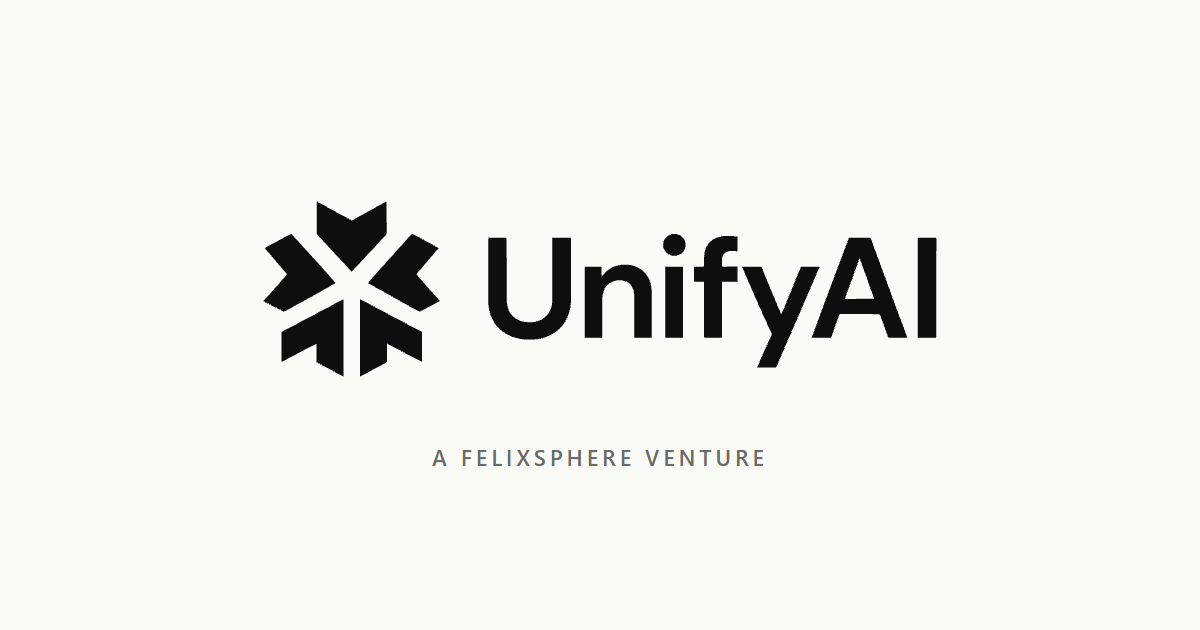
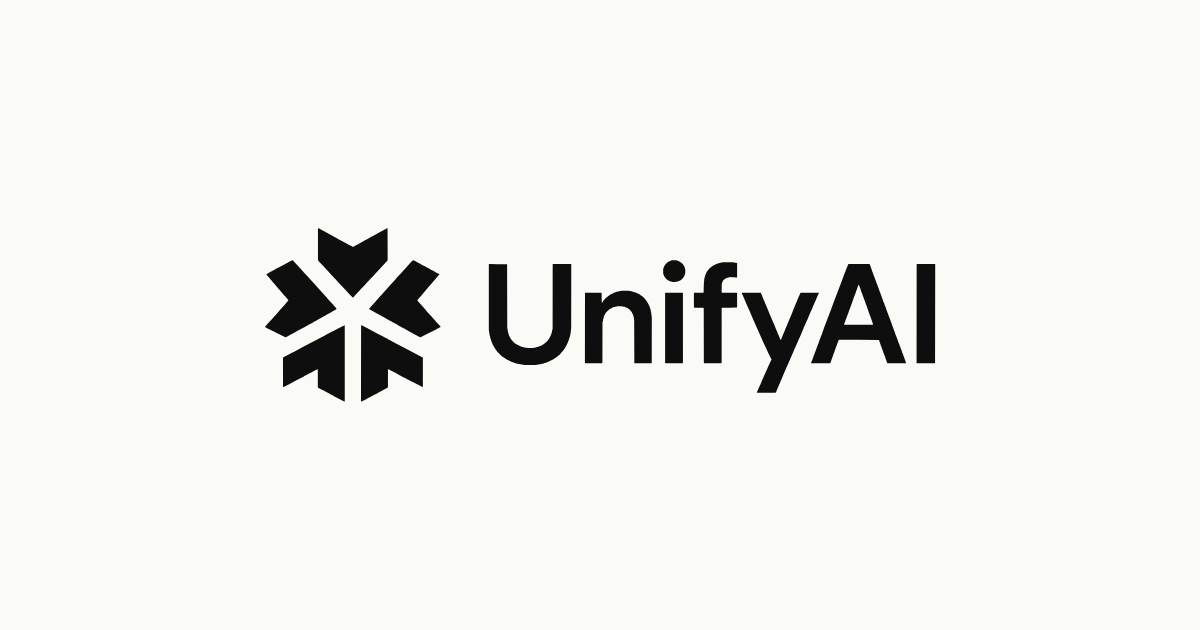
docs(spec): notifications use the shared UnifyAI email layout; drop the tagline
The brand owner wants Compute's future emails on the same layout as every
other UnifyAI product. No sending code exists, and this adds none: it
specifies three messages (job finished, job failed, and billing stopped the
job), tied to the states and codes the job API, metering spec and ADR-0008
already define (succeeded, failed, balance_exhausted, billing_unavailable).
Compute still cannot email a customer because the console owns contact
details, so the spec leaves the delivery path and the sender address open.

base.html is a verbatim copy of the kit's layout, and the logo PNGs are
served from this site's own domain, because the kit forbids hotlinking
across products. The kit's OG image carried "A FelixSphere venture", which
the user has now ruled out everywhere. It is re-rendered from the kit
lockup SVG without the line. The self-hosted brand fonts are recorded as
OFL in THIRD-PARTY-LICENSES.md.

diff --git a/docs/spec/email/base.html b/docs/spec/email/base.html
@@ -1,0 +1,98 @@
+<!doctype html>
+<html lang="{{lang}}" dir="{{dir}}" xmlns="http://www.w3.org/1999/xhtml">
+<head>
+<meta charset="utf-8">
+<meta name="viewport" content="width=device-width, initial-scale=1">
+<meta name="x-apple-disable-message-reformatting">
+<meta name="color-scheme" content="light">
+<meta name="supported-color-schemes" content="light">
+<title>{{subject}}</title>
+<!--[if !mso]><!-->
+<link href="https://fonts.googleapis.com/css2?family=Space+Grotesk:wght@700&family=Instrument+Sans:wght@400;600&family=IBM+Plex+Mono:wght@500&display=swap" rel="stylesheet">
+<!--<![endif]-->
+<style>
+  body { margin: 0; padding: 0; background: #FAFAF7; }
+  a { color: #0E0E0E; }
+  @media (max-width: 620px) {
+    .u-card { width: 100% !important; }
+    .u-pad { padding-left: 24px !important; padding-right: 24px !important; }
+    .u-h1 { font-size: 24px !important; line-height: 30px !important; }
+  }
+</style>
+</head>
+<body style="margin:0; padding:0; background:#FAFAF7;">
+<!-- Inbox preview text: one sentence, never repeats the subject -->
+<div style="display:none; max-height:0; overflow:hidden; mso-hide:all;">{{preheader}}&#8199;&#65279;&#847;&#8199;&#65279;&#847;&#8199;&#65279;&#847;</div>
+
+<table role="presentation" width="100%" cellpadding="0" cellspacing="0" border="0" style="background:#FAFAF7;">
+<tr><td align="center" style="padding:32px 12px;">
+
+  <table role="presentation" class="u-card" width="600" cellpadding="0" cellspacing="0" border="0" style="width:600px; max-width:600px; background:#FFFFFF; border:1px solid #E3E3DE; border-radius:6px;">
+
+    <!-- Header: fixed lockup + product descriptor (current product name, unchanged) -->
+    <tr><td class="u-pad" style="padding:28px 40px 24px; border-bottom:1px solid #E3E3DE;">
+      <table role="presentation" cellpadding="0" cellspacing="0" border="0"><tr>
+        <td style="vertical-align:middle;"><img src="{{asset_base}}/unifyai-lockup-black@2x.png" width="132" height="40" alt="UnifyAI" style="display:block; border:0; width:132px; height:40px;"></td>
+        <!-- Omit the next two cells when the product IS "UnifyAI" (UnifySelfAI) -->
+        <td style="vertical-align:middle; padding:0 14px;"><div style="width:1px; height:22px; background:#CFCFC9;"></div></td>
+        <td style="vertical-align:middle; font-family:'Space Grotesk',Helvetica,Arial,sans-serif; font-weight:700; font-size:16px; color:#0E0E0E; white-space:nowrap;">{{product_name}}</td>
+      </tr></table>
+    </td></tr>
+
+    <!-- Body -->
+    <tr><td class="u-pad" style="padding:36px 40px 8px;">
+      <div style="font-family:'IBM Plex Mono',Menlo,Consolas,monospace; font-size:12px; letter-spacing:1.6px; text-transform:uppercase; color:#6B6B66;">{{eyebrow}}</div>
+      <h1 class="u-h1" style="margin:10px 0 0; font-family:'Space Grotesk',Helvetica,Arial,sans-serif; font-weight:700; font-size:28px; line-height:34px; letter-spacing:-0.4px; color:#0E0E0E;">{{headline}}</h1>
+      <p style="margin:16px 0 0; font-family:'Instrument Sans',Helvetica,Arial,sans-serif; font-size:16px; line-height:26px; color:#3A3A37;">{{intro}}</p>
+    </td></tr>
+
+    <!-- ONE focal element. Use exactly one of: CTA button | code block -->
+    <!-- (a) CTA button: amber, INK text (white on amber fails contrast) -->
+    <tr><td class="u-pad" style="padding:28px 40px 4px;">
+      <table role="presentation" cellpadding="0" cellspacing="0" border="0"><tr>
+        <td style="border-radius:6px; background:#F5A623;">
+          <!--[if mso]><v:roundrect xmlns:v="urn:schemas-microsoft-com:vml" href="{{cta_url}}" style="height:48px;v-text-anchor:middle;width:240px;" arcsize="12%" stroke="f" fillcolor="#F5A623"><center style="color:#0E0E0E;font-family:Arial,sans-serif;font-size:16px;font-weight:bold;">{{cta_label}}</center></v:roundrect><![endif]-->
+          <!--[if !mso]><!--><a href="{{cta_url}}" style="display:inline-block; padding:14px 26px; font-family:'Instrument Sans',Helvetica,Arial,sans-serif; font-weight:600; font-size:16px; line-height:20px; color:#0E0E0E; text-decoration:none; border-radius:6px;">{{cta_label}}</a><!--<![endif]-->
+        </td>
+      </tr></table>
+      <p style="margin:14px 0 0; font-family:'Instrument Sans',Helvetica,Arial,sans-serif; font-size:13px; line-height:20px; color:#6B6B66;">Button not working? Paste this link into your browser:<br><a href="{{cta_url}}" style="color:#0E0E0E; word-break:break-all;">{{cta_url}}</a></p>
+    </td></tr>
+    <!-- (b) Code block alternative:
+    <tr><td class="u-pad" style="padding:28px 40px 4px;">
+      <div style="background:#0E0E0E; border-radius:6px; padding:20px 24px; font-family:'IBM Plex Mono',Menlo,Consolas,monospace; font-weight:500; font-size:32px; letter-spacing:8px; color:#FAFAF7; text-align:center;">{{code}}</div>
+    </td></tr>
+    -->
+
+    <!-- Optional details: key/value rows, mono values -->
+    <tr><td class="u-pad" style="padding:28px 40px 0;">
+      <table role="presentation" width="100%" cellpadding="0" cellspacing="0" border="0" style="border-top:1px solid #E3E3DE;">
+        <!-- repeat per row -->
+        <tr>
+          <td style="padding:10px 0; border-bottom:1px solid #E3E3DE; font-family:'Instrument Sans',Helvetica,Arial,sans-serif; font-size:14px; color:#6B6B66;">{{detail_label}}</td>
+          <td align="right" style="padding:10px 0; border-bottom:1px solid #E3E3DE; font-family:'IBM Plex Mono',Menlo,Consolas,monospace; font-size:14px; color:#0E0E0E;">{{detail_value}}</td>
+        </tr>
+      </table>
+    </td></tr>
+
+    <!-- Safety line: why this arrived / what to do if unexpected -->
+    <tr><td class="u-pad" style="padding:24px 40px 36px;">
+      <p style="margin:0; font-family:'Instrument Sans',Helvetica,Arial,sans-serif; font-size:13px; line-height:20px; color:#6B6B66;">{{safety_note}}</p>
+    </td></tr>
+
+  </table>
+
+  <!-- Footer, outside the card -->
+  <table role="presentation" class="u-card" width="600" cellpadding="0" cellspacing="0" border="0" style="width:600px; max-width:600px;">
+    <tr><td class="u-pad" style="padding:24px 40px; font-family:'Instrument Sans',Helvetica,Arial,sans-serif; font-size:12px; line-height:19px; color:#6B6B66;">
+      <img src="{{asset_base}}/unifyai-mark-black@2x.png" width="24" height="24" alt="" style="display:block; border:0; width:24px; height:24px; margin-bottom:10px;">
+      {{product_name}} · <a href="{{product_url}}" style="color:#6B6B66;">{{product_domain}}</a><br>
+      {{footer_reason}}<br>
+      UnifyAI · Lebuh Bandar Utama PJU 6, 47800 Petaling Jaya, Selangor, Malaysia
+      <!-- Marketing mail only: add an unsubscribe link here. Transactional mail (verify, reset, receipts) has none. -->
+    </td></tr>
+  </table>
+
+</td></tr>
+</table>
+</body>
+</html>

diff --git a/docs/spec/notifications.md b/docs/spec/notifications.md
@@ -1,0 +1,180 @@
+# Notifications: customer email for job outcomes
+
+- **Status:** Spec, nothing built. Compute sends no mail today. No code in this
+  repository builds, renders or sends email, and this document does not add
+  any.
+- Depends on: [`job-api.md`](job-api.md) (job states, `error.code`, the
+  `usage` object), [`metering.md`](metering.md) (what is billed, money format,
+  holds H1–H7), [ADR-0008](../adr/0008-zero-balance-policy.md) (zero-balance
+  policy, **Proposed**), and the shared UnifyAI email kit
+  (`~/unifyai-brand-kit/email/README.md`).
+- Layout: [`email/base.html`](email/base.html), a verbatim copy of the kit's
+  `base.html` taken on 2026-10-01 (the revision without the FelixSphere
+  tagline). Copy it again when the kit changes rather
+  than editing it here.
+
+## What exists and what does not
+
+| Piece | State |
+|---|---|
+| Layout (`docs/spec/email/base.html`) | Copied from the kit. Not wired to anything. |
+| Logo PNGs (`public/email/`) | Served by the marketing site at `https://compute.unifyai.us/email/…` once this branch is released. On the local production build (`wrangler dev`) the kit's `@2x` file names answer `307` to the `%402x` spelling, which then returns `200`. Image proxies normally follow that redirect, but check the live URLs once before the first send. |
+| Customer email addresses | **Compute does not have them.** The UnifyAPI console owns accounts and contact details (ADR-0001). |
+| Delivery path | **Open.** See [Delivery](#delivery-open). |
+| Job web page for the CTA to open | **Does not exist.** See [Open points](#open-points). |
+| Sender name and address | **Not decided.** See [Open points](#open-points). |
+
+## Messages
+
+Three messages, all transactional, all from terminal job states that
+`job-api.md` already defines. No new state or `error.code` is introduced here.
+
+| Message | Fires on | Source in the specs |
+|---|---|---|
+| Job finished | `status` becomes `succeeded` | `job-api.md` status diagram; `metering.md` B6 |
+| Job failed | `status` becomes `failed` | `job-api.md` status diagram; `metering.md` B7 (after `UP`) and B8 (before `UP`) |
+| Billing stopped the job | `status` becomes `cancelled` with `error.code = balance_exhausted` or `billing_unavailable` | `job-api.md` "Metering and settlement"; `metering.md` H4, H5, B12, B13; ADR-0008 |
+
+Out of scope:
+
+- **Customer cancels.** The customer made the cancel request, so no email is sent.
+- **`interrupted`.** `metering.md` B9 bills `interrupted`, but nobody has asked
+  for an email on it. This is an open point.
+- **Hold refused at submit.** The `402` goes straight back to the caller and no
+  job is persisted (`job-api.md` `POST /jobs`), so there is no job to email
+  about.
+- **Extension refused before the cancel.** H4 says compute "emits a job event"
+  at the first refusal, which gives the customer about 50 minutes to top up. An
+  email at that moment would be the most useful warning, but it is a fourth
+  message. It is listed under open points and not specified here.
+- **Storage arrears and deletion** (ADR-0008). ADR-0008's open point 1 already
+  covers these.
+
+### Shared slots
+
+These values are the same in every message.
+
+| Slot in `base.html` | Value |
+|---|---|
+| `{{lang}}` / `{{dir}}` | `en` / `ltr` (compute has no other locale) |
+| `{{asset_base}}` | `https://compute.unifyai.us/email` |
+| `{{product_name}}` | `Compute`, as the brand owner asked. See the naming note under open points. |
+| `{{product_url}}` / `{{product_domain}}` | `https://compute.unifyai.us` / `compute.unifyai.us` |
+| `{{footer_reason}}` | "You're receiving this because a job you submitted with your UnifyAPI key changed state." |
+| Focal element | Option (a), the CTA button: amber `#F5A623` with **ink `#0E0E0E` text**, exactly as in `base.html`. Never white on amber. Amber appears only on this button. |
+| `{{cta_url}}` | The job's page, `…/jobs/{id}`. That page does not exist yet (open points). The raw link under the button is the same URL. |
+
+All three messages use these detail rows. Values are mono, as in the layout.
+
+| Label | Value | Source |
+|---|---|---|
+| Job | `job_01J8Q6ZK3R7Y9W2X4V6T8S0A1B` | `id` |
+| GPU | `a10g-24gb-x1 · NVIDIA A10G` | `sku`, then the SKU's `gpu` (`job-api.md` SKU object) |
+| GPU-seconds | `1830` | `usage.gpu_seconds`, an integer |
+| Cost | `USD 0.6100` | The GPU charge, a decimal string in USD with 4 places, never a float (`job-api.md` "Money is a decimal string"). Take it from `usage.cost_usd.gpu` once the `metering.md` cost breakdown lands. Until then, use `usage.settled_cost_usd`, which is GPU-only today. |
+
+Cost shows only the GPU charge. The job's storage and egress keep accruing
+after the terminal state and are collected daily (`metering.md` R5), so a total
+in the email would be wrong by the next morning. The safety line says so.
+
+**Plain-text part (required for every message).** The kit requires a
+`text/plain` alternative with the same content: the eyebrow, headline, intro,
+CTA label with the full URL on its own line, every detail row as
+`Label: value`, the safety line, and the footer (product · domain, the
+reason, and the company address line). The footer carries no FelixSphere
+tagline, as UI-STANDARD requires. The plain text
+must read correctly by itself with images blocked. The subject names the
+product and the action, and the preheader adds information the subject does
+not carry.
+
+### 1. Job finished
+
+| Part | Content |
+|---|---|
+| Subject | `Compute job finished: {job id}` |
+| Preheader | `Ran {gpu_seconds} GPU-seconds on {gpu}. Outputs are ready to download.` |
+| Eyebrow | `JOB FINISHED` |
+| Headline | `Your job finished.` |
+| Intro | `{job id} exited successfully. Its outputs are kept until you delete them, and storage is charged daily while they exist.` |
+| CTA label | `View job` |
+| Detail rows | Job, GPU, GPU-seconds, Cost (shared rows above). `Status` row: `succeeded`, with the success dot `#1E9E63` beside the word. Status colour is used only for the status word, as the kit says. |
+| Safety line | `You're getting this because a job you submitted finished. Cost is the GPU charge only; storage and egress for its outputs are billed daily from your UnifyAPI balance. If you don't recognise this job, revoke the key that submitted it in the UnifyAPI console.` |
+
+### 2. Job failed
+
+| Part | Content |
+|---|---|
+| Subject | `Compute job failed: {job id}` |
+| Preheader | One sentence with the `error.message` from the Job. If the job never reached `UP`, add: `No GPU time was charged.` |
+| Eyebrow | `JOB FAILED` |
+| Headline | `Your job failed.` |
+| Intro | B7, non-zero exit after `UP`: `{job id} exited with an error after {gpu_seconds} GPU-seconds. Logs are kept for 7 days.` B8, before `UP`: `{job id} could not start, so no GPU time was charged and its hold was released in full.` |
+| CTA label | `View job and logs` |
+| Detail rows | Job, GPU, GPU-seconds, Cost (B8 shows `0` and `USD 0.0000`). `Status`: `failed`, with the danger dot `#D92D20`. `Reason`: the Job's `error.code` as returned, e.g. `capacity_exhausted` (`metering.md` B8). The email prints the code and does not translate it. |
+| Safety line | `You're getting this because a job you submitted failed. Logs are retained 7 days after the job ends. If you don't recognise this job, revoke the key that submitted it in the UnifyAPI console.` |
+
+### 3. Billing stopped the job (hold or settlement failed)
+
+One template with two variants keyed on `error.code`. Both are `cancelled` jobs
+that compute itself stopped (`job-api.md`; `metering.md` H4 and H5).
+
+| Part | `balance_exhausted` (H4, B12) | `billing_unavailable` (H5, B13) |
+|---|---|---|
+| Subject | `Compute job stopped: balance exhausted` | `Compute job stopped: billing unavailable` |
+| Preheader | `Your UnifyAPI balance could not cover more GPU time for {job id}.` | `We couldn't reach billing for {job id}, so we stopped it before it overspent its hold.` |
+| Eyebrow | `JOB STOPPED` | `JOB STOPPED` |
+| Headline | `Your job was stopped: balance exhausted.` | `Your job was stopped: billing unavailable.` |
+| Intro | `The hold for {job id} could not be extended, so we stopped it before it ran past what your balance covers. You are charged only for the GPU-seconds it ran.` | `Billing could not be reached for long enough that {job id}'s hold was about to run out, so we stopped it. You are charged only for the GPU-seconds it ran. This was an outage on our side, not a problem with your balance.` |
+| CTA label | `View job` | `View job` |
+| Detail rows | Job, GPU, GPU-seconds, Cost. `Status`: `cancelled`, with the warning dot `#E0A100`. `Reason`: `balance_exhausted`. | Same, with `Reason`: `billing_unavailable`. Cost is what the ledger accrued. The final settle is retried until the console answers (B13), so the email must not say "charged". It says `Cost (pending settlement)`. |
+| Safety line | `You're getting this because a job you submitted was stopped for billing. Top up your UnifyAPI balance before resubmitting. If you don't recognise this job, revoke the key that submitted it in the UnifyAPI console.` | `You're getting this because a job you submitted was stopped for billing. Nothing is needed from you. Resubmit when you're ready. If you don't recognise this job, revoke the key that submitted it in the UnifyAPI console.` |
+
+The focal element stays the job link in both variants. The top-up action lives
+in the UnifyAPI console. A second button would put amber on the page twice, so
+the safety line names the action as text instead.
+
+## Delivery (open)
+
+Compute cannot email a customer today. It never sees an address: the console
+owns contact details (ADR-0001), and ADR-0008's consequences say this "must be
+resolved before the first paid customer". The named options are listed below.
+None is chosen here.
+
+- **The console sends.** A new bridge verb asks the console to email a user.
+  ADR-0008 open point 1 names it as `POST /api/compute/v1/notify`, "not
+  proposed here, only named", and `metering.md` lists it as optional. The
+  console's existing sender is `console/common/email.go` over SES, per the kit
+  README. Because of ADR-0002, the console-side half would be new AGPL code in
+  the console repository, and compute would send it only the template data.
+- **Compute sends.** Compute would need the address from the console, which
+  is new data crossing the bridge, plus its own mail provider and sending
+  domain.
+- **Neither, for now.** Job events and webhooks (ADR-0007 P1) carry the same
+  information, and email waits.
+
+Whichever path is chosen, the `{{…}}` values above are the contract. The
+rendered HTML and the plain-text part come from `base.html` with those slots
+filled.
+
+## Open points
+
+Each of these is for the user or the brand owner to decide.
+
+1. **Sender display name and address.** The kit's rule is `<product name>
+   <no-reply@…>`, e.g. `Compute <no-reply@compute.unifyai.us>`. No mail domain
+   is set up for `compute.unifyai.us`, and if the console sends, its own SES
+   identity may dictate the address.
+2. **Delivery path.** See the section above.
+3. **Product name in the header and sender.** The brand owner asked for
+   `Compute`. The kit README's rule is "`{{product_name}}` is the product's
+   current name", and the current name is not uniform. The repository and
+   docs say `unify-compute`, the kit README lists `unify-compute`, the
+   marketing site's title says `unifyAI`, and the unmerged
+   `feat/cross-terminal` branch calls it `UnifyCompute`. `Compute` does not
+   contradict any of these, since it reads as the descriptor after the
+   UnifyAI lockup, but they should be settled together.
+4. **Where `{{cta_url}}` points.** No customer UI shows a job yet. It could be
+   a future console page, a compute dashboard, or the API URL. The API URL
+   needs a key and is not a page.
+5. **More messages.** An early warning at the first refused extension (H4, about
+   50 minutes before the cancel), and `interrupted` (B9).

diff --git a/THIRD-PARTY-LICENSES.md b/THIRD-PARTY-LICENSES.md
@@ -34,3 +34,29 @@ our build graph. The `cmd/compute-api` binary links them once it imports
 npm dependencies in `package.json` are MIT-licensed shadcn/Radix/Vite ecosystem
 packages plus vinext and the OpenAI Sites plugin; the site is a static export
 and none of them ship in `compute-api`.
+
+### Fonts (self-hosted, shipped to every visitor)
+
+The site serves these font files from its own origin rather than from Google
+Fonts, because loading from Google sends visitors' IP addresses to Google
+(UnifyAI UI standard). The `@fontsource` packages bundle the woff2 files into
+the build, and each package carries the font's licence text in its `LICENSE`.
+
+| Font | Weights | Package | Licence |
+|---|---|---|---|
+| Space Grotesk | 500, 700 | `@fontsource/space-grotesk` 5.3.0 | SIL Open Font License 1.1 |
+| Instrument Sans | 400, 500, 600 | `@fontsource/instrument-sans` 5.3.0 | SIL Open Font License 1.1 |
+| IBM Plex Mono | 400, 500 | `@fontsource/ibm-plex-mono` 5.3.0 | SIL Open Font License 1.1 |
+
+OFL allows bundling and redistribution with the site. It forbids selling the
+fonts by themselves, and a modified font may not use the reserved font name.
+We do neither. Email templates (`docs/spec/email/base.html`) link the same
+three fonts from Google Fonts, as the shared email kit specifies, because mail
+clients do not load self-hosted fonts reliably.
+
+### Brand artwork
+
+`public/brand/`, `public/email/`, `public/icons/`, the favicons and
+`public/og-image-v3.png` are UnifyAI's own artwork from the Option 01 "Inward
+hex" logo package and the UnifyAI brand kit. They are proprietary and are not
+third-party material.
